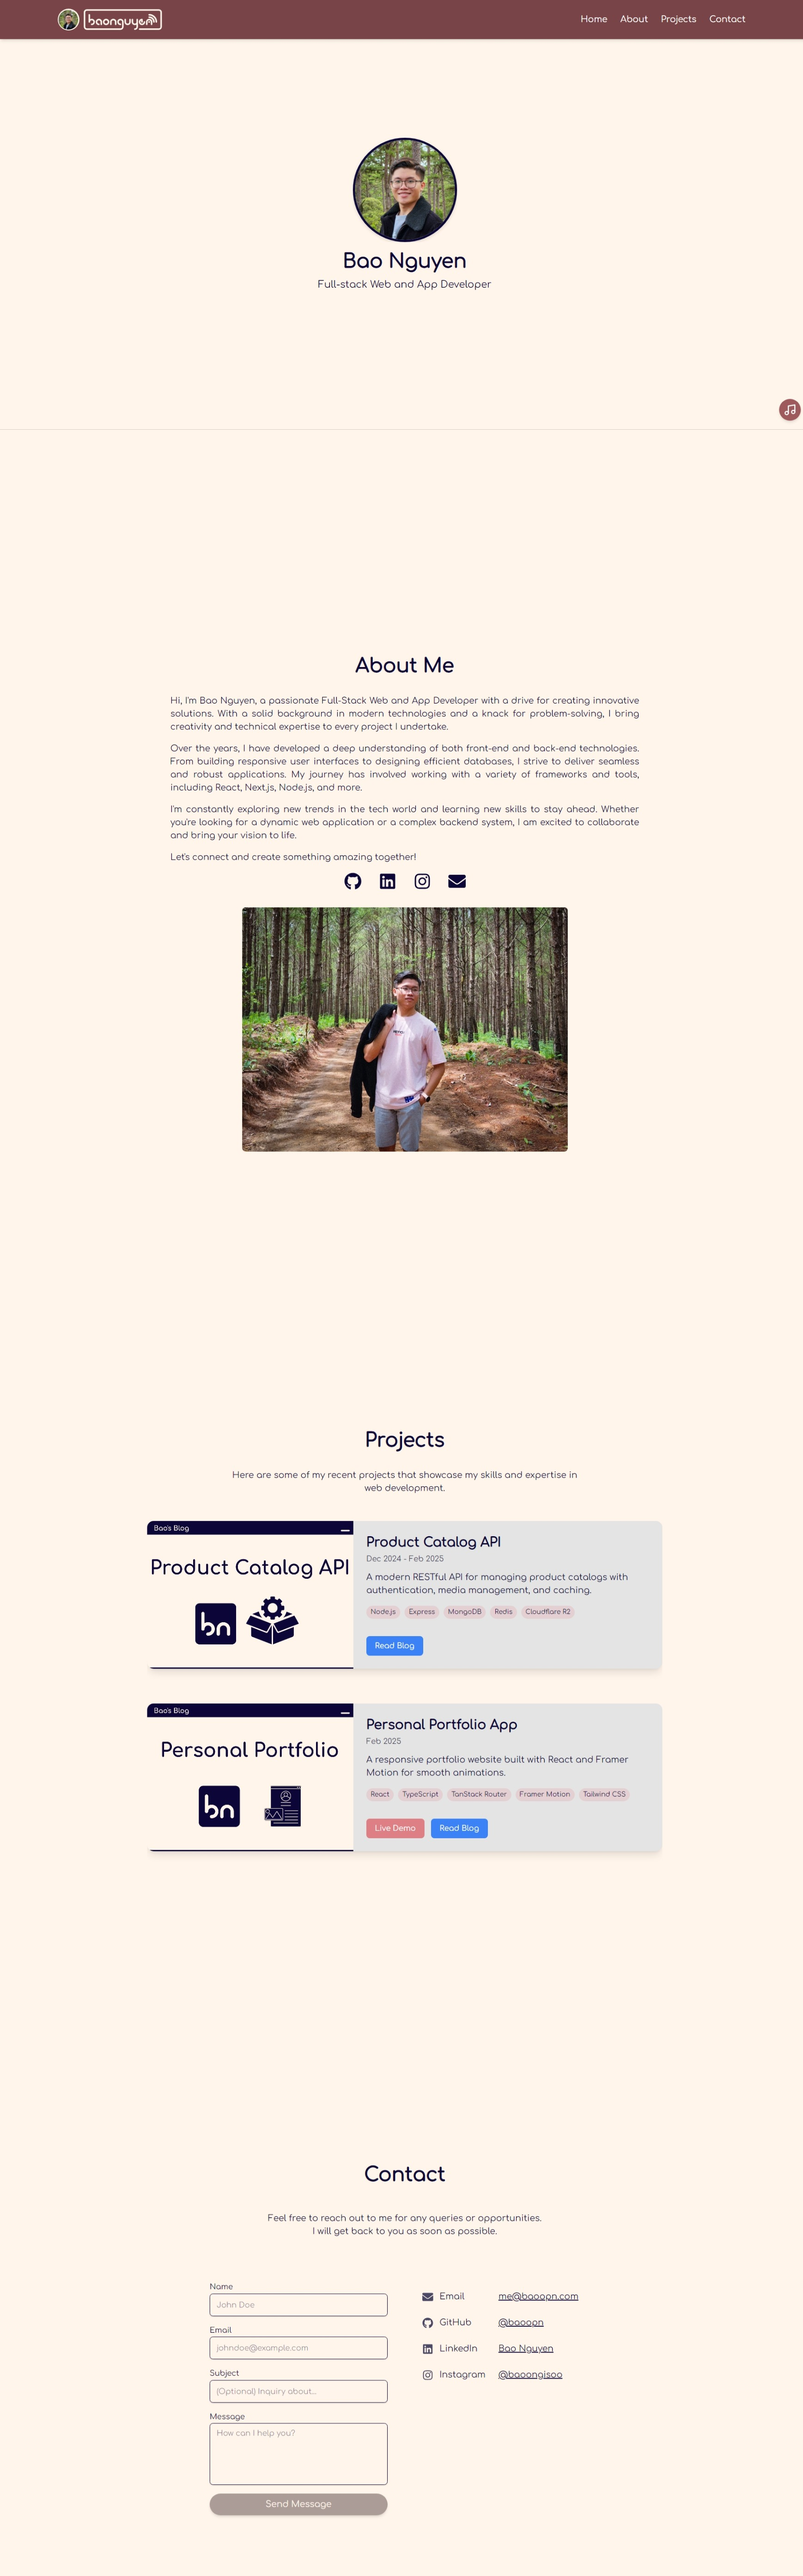
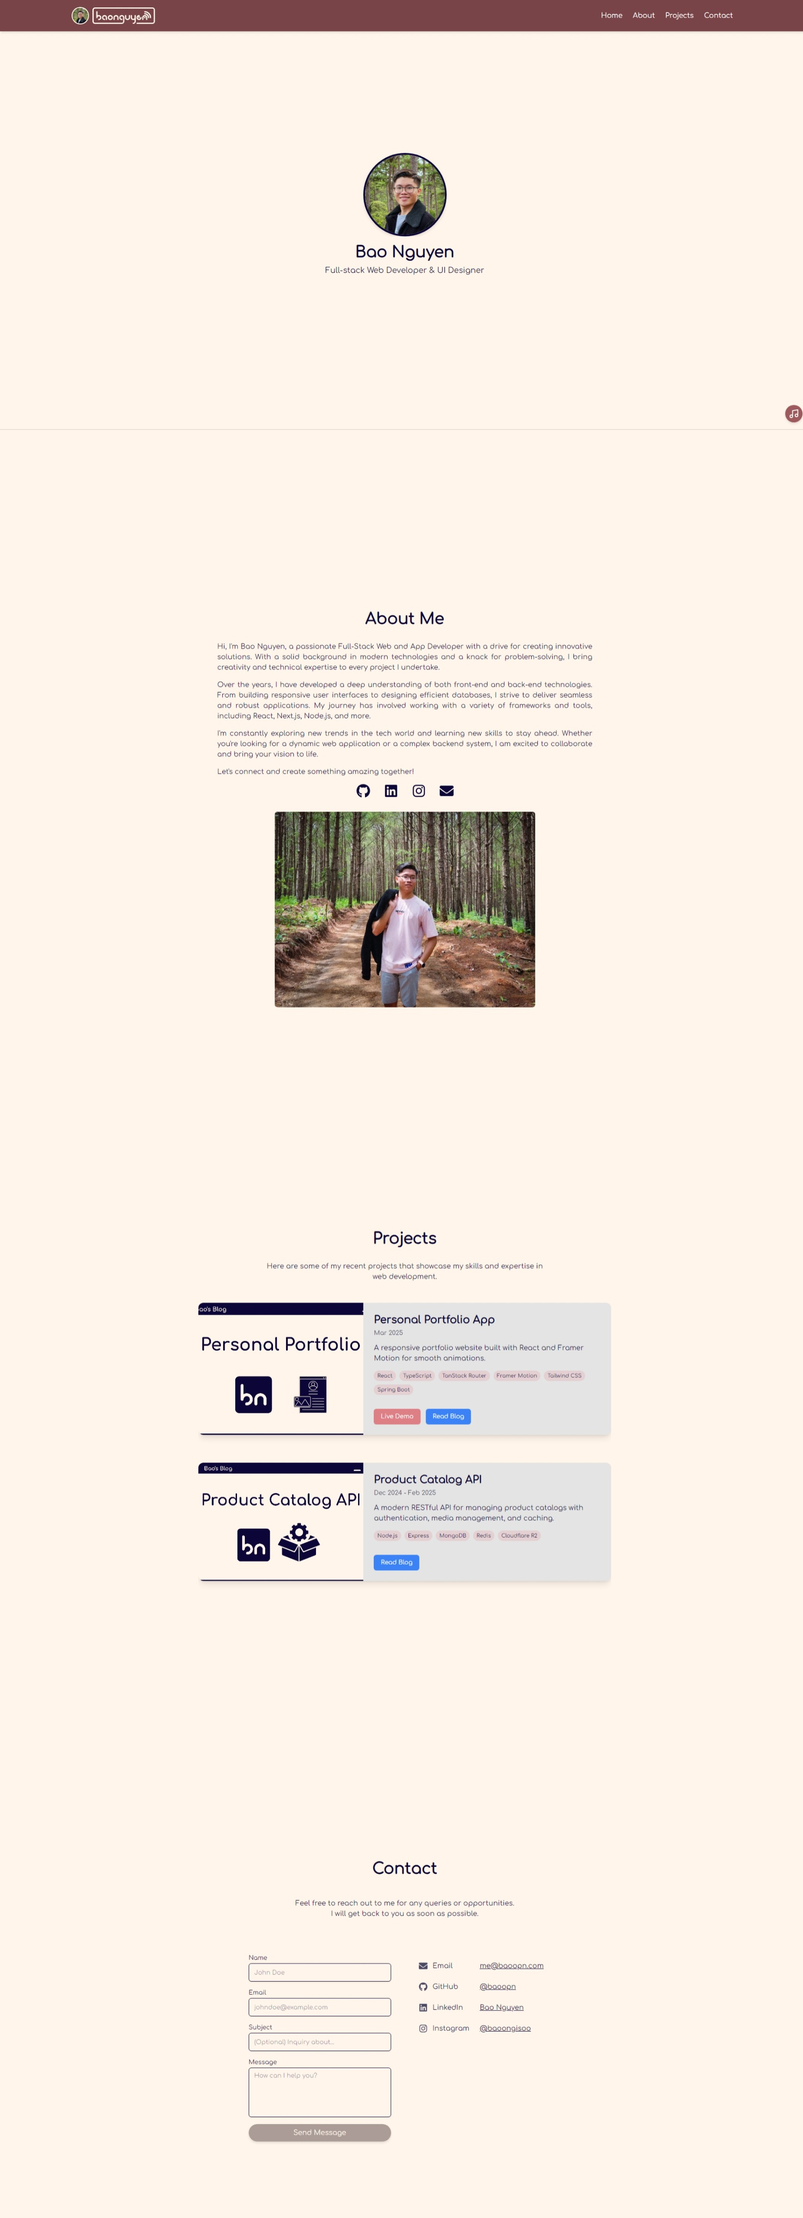
Update portfolio metadata and visuals for improved branding and clarity

diff --git a/index.html b/index.html
@@ -3,13 +3,13 @@
   <head>
     <meta charset="UTF-8" />
     <meta name="viewport" content="width=device-width, initial-scale=1.0" />
-    <title>Bao Nguyen | Software Engineer Portfolio</title>
+    <title>Bao Nguyen | Full-stack Web Developer & UI Designer</title>
     <meta name="theme-color" content="#784447" media="(prefers-color-scheme: light)" />
     <meta name="theme-color" content="#0b0637" media="(prefers-color-scheme: dark)" />
-    <meta name="description" 
-      content="Bao Nguyen - Full Stack Software Engineer Portfolio showcasing React, TypeScript, Java and Spring Boot projects, skills, and experience" />
-    <meta name="keywords" 
-      content="software engineer, full stack developer, react, typescript, spring boot, java, web development, portfolio, bao nguyen" />
+    <meta name="description"
+      content="Bao Nguyen - Full-stack Web Developer specializing in React, Next.js, Express.js, TypeScript, and Tailwind CSS with UI/UX design experience using Figma and Illustrator" />
+    <meta name="keywords"
+      content="Full-stack Web developer, react developer, next.js, node.js, typescript, tailwind css, UI designer, figma, illustrator, web development, portfolio, bao nguyen" />
     <meta name="author" content="Bao Nguyen" />
     <link rel="shortcut icon" href="/favicon.ico" type="image/x-icon" />
     <link rel="apple-touch-icon" href="/apple-touch-icon.png" />
@@ -24,14 +24,16 @@
     <!-- Open Graph / Facebook -->
     <meta property="og:type" content="website" />
     <meta property="og:url" content="https://baoopn.com/" />
-    <meta property="og:title" content="Bao Nguyen | Software Engineer Portfolio" />
-    <meta property="og:description" content="Full Stack Software Engineer specializing in React, TypeScript, Java and Spring Boot" />
+    <meta property="og:title" content="Bao Nguyen | Full-stack Web Developer & UI Designer" />
+    <meta property="og:description"
+      content="Full-stack Web Developer specializing in React, Next.js, Node.js, and Tailwind CSS with UI design skills in Figma and Illustrator" />
     <meta property="og:image" content="https://cdn.baoopn.com/social-preview.jpg" />
     <!-- Twitter -->
     <meta name="twitter:card" content="summary_large_image" />
     <meta name="twitter:url" content="https://baoopn.com/" />
-    <meta name="twitter:title" content="Bao Nguyen | Software Engineer Portfolio" />
-    <meta name="twitter:description" content="Full Stack Software Engineer specializing in React, TypeScript, Java and Spring Boot" />
+    <meta name="twitter:title" content="Bao Nguyen | Full-stack Web Developer & UI Designer" />
+    <meta name="twitter:description"
+      content="Full-stack Web Developer specializing in React, Next.js, Node.js, and Tailwind CSS with UI design skills in Figma and Illustrator" />
     <meta name="twitter:image" content="https://cdn.baoopn.com/social-preview.jpg" />
     <link rel="canonical" href="https://baoopn.com/" />
     <link rel="icon" href="/favicon.png" type="image/png" />
@@ -41,7 +43,6 @@
   </head>
 
   <body>
-    <div id="app"></div>
-    <script type="module" src="/src/main.tsx"></script>
-  </body>
-</html>
+  <div id="app"></div>
+  <script type="module" src="/src/main.tsx"></script>
+</body>

diff --git a/src/components/Hero.tsx b/src/components/Hero.tsx
@@ -2,7 +2,7 @@ import { useState, useEffect } from "react";
 import { Reveal } from "./utils/Reveal";
 
 const HERO_TITLE = "Bao Nguyen";
-const HERO_SUBTITLE = "Full-stack Web and App Developer";
+const HERO_SUBTITLE = "Full-stack Web Developer & UI Designer";
 
 const HeroSection = () => {
   const [isVisible, setIsVisible] = useState(false);

diff --git a/src/blog/portfolio-app/page-1.md b/src/blog/portfolio-app/page-1.md
@@ -4,7 +4,7 @@
 
 In this blog series, I'll share my experience building this portfolio website using modern web technologies. This project serves as both a showcase for my work and a practical demonstration of my technical skills in frontend development.
 
-![Portfolio Website Blog Thumbnail](/thumbs/portfolio-thumb.png)
+![Portfolio Website Blog Thumbnail](/thumbs/web-thumb.png)
 
 ![Portfolio Website Blog Screenshot](/blog-img/portfolio-app/baoopn_web.jpg)
 
